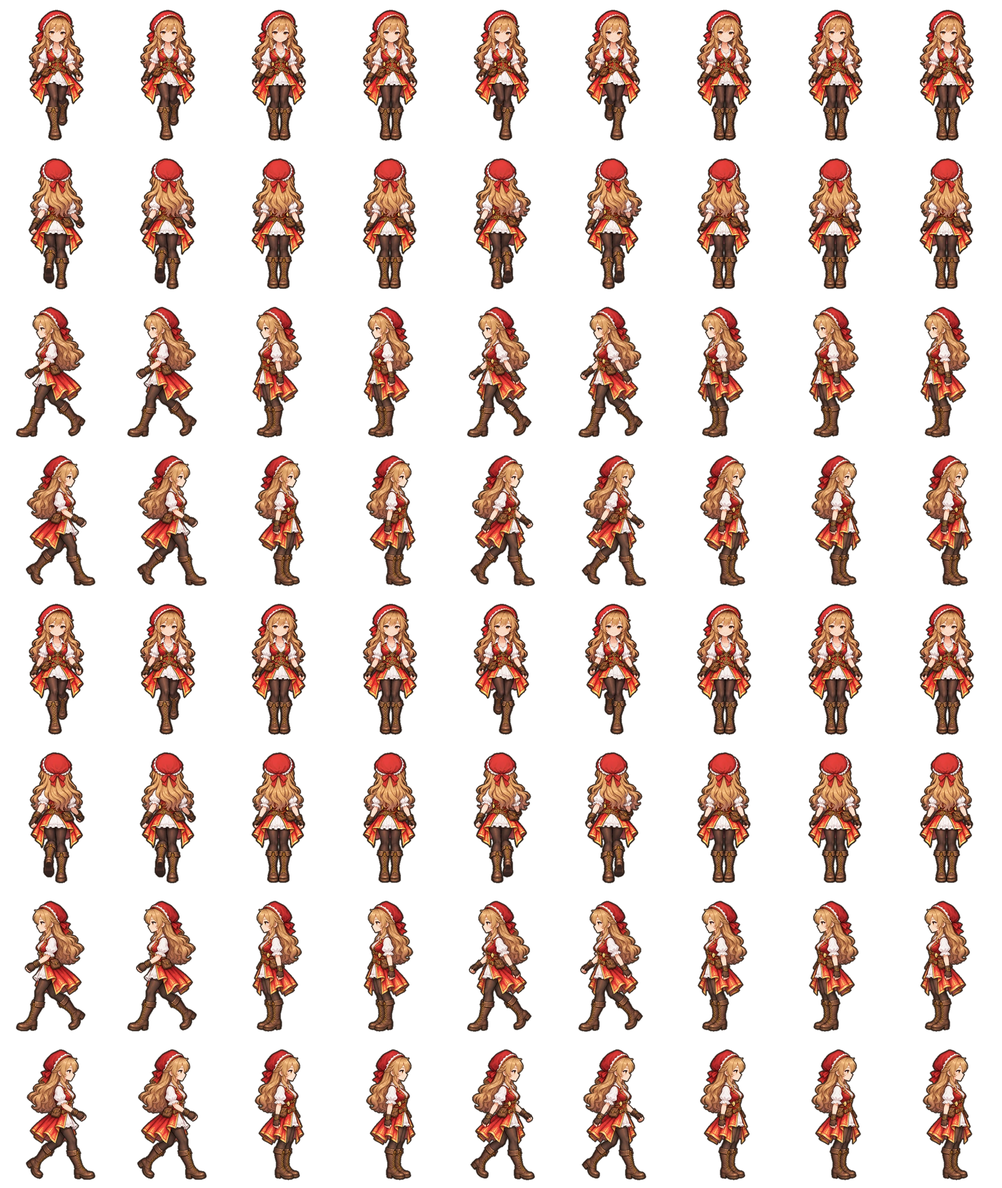
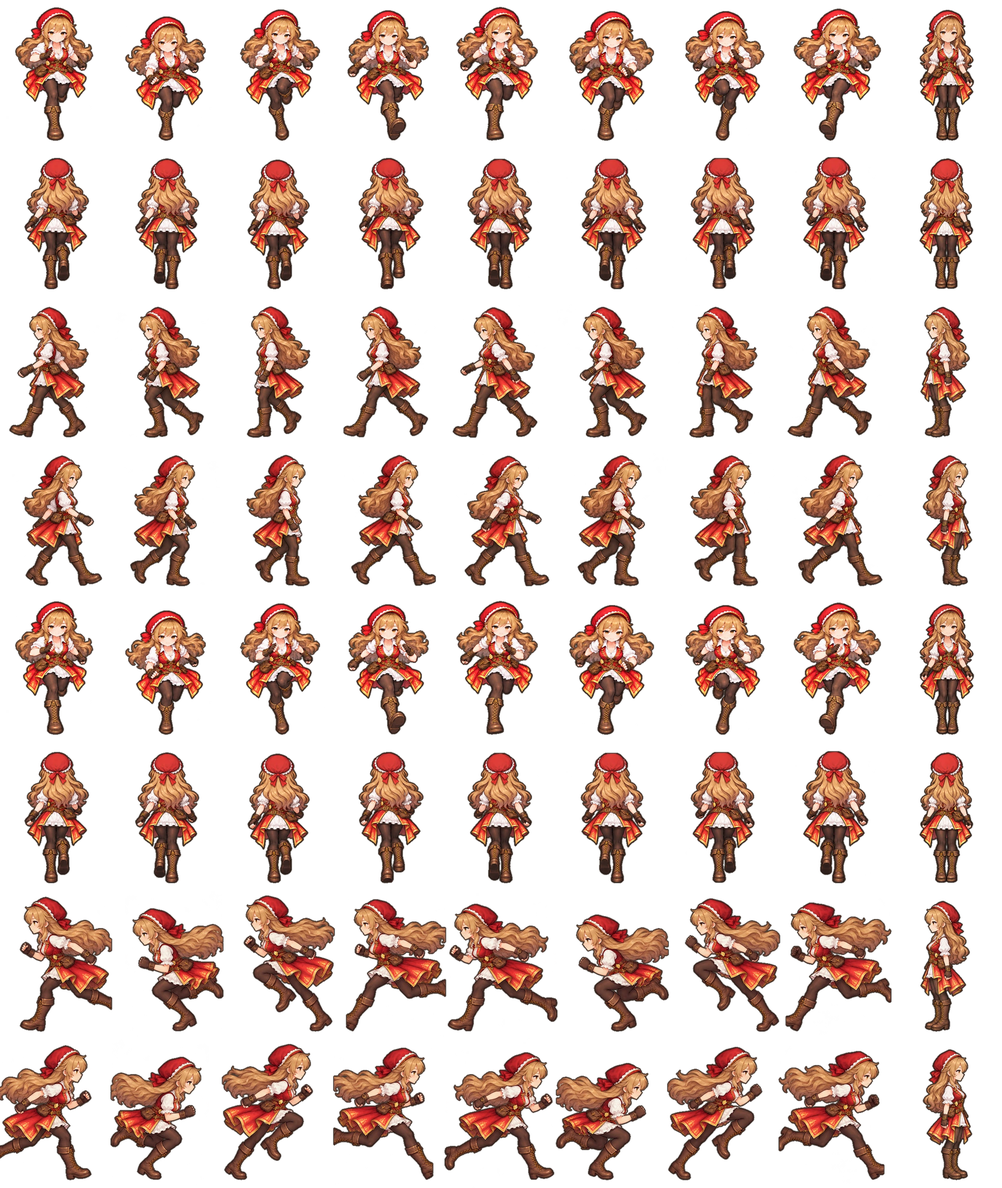
人物の表示を 1.35 倍に・走りは絵の大きさのまま・女性の歩き4方向と左右の走り（第3版）を組み込み
- ユーザー「走っているサイズ感をメインに。立ち・歩きが街に対して小さい」：走りを縮める直しを取り消し（色合わせは残す）、
  街・部屋の人物の表示倍率 FIGURE_ZOOM 1.2→1.35（主人公・人とも）、ダンジョンは 54→61
- 女性：左向きの歩き・正面の歩き・背中の歩き・左向きの走り（2枚ずつ届いたので色と顔が元の絵に近いほうを採用）。
  正面・背中の走りは届くまで歩きの写し
- 帽子の色の検出を男女共通に（青・赤）

Claude-Session: https://claude.ai/code/session_017pkdgoVCas5KENQnYkuWbn

Changed region(s): [[0.0, 0.0, 0.8951, 1.0]]

diff --git a/src/ui/screens/worldScreen.ts b/src/ui/screens/worldScreen.ts
@@ -113,8 +113,11 @@ const DUNGEON_TEX = 160;
 const ART_SCALE = 0.5625;
 /** 部屋は画面の高さに合わせて少し大きく見せる（街の何倍までか。人物の絵がぼやけない範囲） */
 const ROOM_ZOOM_MAX = 1.35;
-/** 街・部屋の人物の大きさ（設計図の 144 単位に対する倍率）。2026-10-23 に街に対して小さすぎたので 1.2 倍に（ユーザー承認） */
-const FIGURE_ZOOM = 1.2;
+/**
+ * 街・部屋の人物の大きさ（設計図の 144 単位に対する倍率）。2026-10-23 に街に対して小さすぎたので 1.2 倍に（ユーザー承認）。
+ * 2026-10-24 ユーザー「立ちと歩きは街に対して小さく見える。走っているサイズ感をメインに」で 1.35 倍に（主人公も人も同じ倍率）
+ */
+const FIGURE_ZOOM = 1.35;
 /** 主人公だけ横幅を広げる倍率（2026-10-23 ユーザー指示「横幅をもう少し大きく」。比べる画像で 1.1 倍を選んだ） */
 const PLAYER_WIDEN = 1.1;
 /** 部屋の絵が画面の高さのどれくらいを占めるか */
@@ -478,9 +481,9 @@ export class WorldView {
     return this.#map.art ? this.#map.art.cell * this.#scale : TILE;
   }
 
-  /** 人物の絵の高さ（論理px）。街・部屋は設計図の 144 単位の FIGURE_ZOOM 倍、仮マップは小さめ */
+  /** 人物の絵の高さ（論理px）。街・部屋は設計図の 144 単位の FIGURE_ZOOM 倍、仮マップ（ダンジョン）は小さめ（2026-10-24 に街と同じ割合で 54→61） */
   get #figureH(): number {
-    return this.#map.art ? 144 * this.#scale * FIGURE_ZOOM : 54;
+    return this.#map.art ? 144 * this.#scale * FIGURE_ZOOM : 61;
   }
 
   /** マス (x, y) に立つ人の足元（論理px） */

diff --git a/src/game/world/walkAnim.ts b/src/game/world/walkAnim.ts
@@ -74,9 +74,12 @@ export const ROW_NAMES: readonly Direction[] = ['down', 'up', 'left', 'right'];
  * 第2版の絵が届いたらここに行を足す（行の番号は DIR_ROW。走りは +RUN_ROW_BASE）。
  * それ以外の行は、前の絵「右足を前・立つ・左足を前」を1コマずつ2回並べた8コマ（実質3ポーズ）
  */
-export const PLAYER_V2_ROWS: Readonly<Record<PlayerGender, ReadonlySet<number>>> = { male: new Set([0, 1, 2, 3, 4, 5, 6, 7]), female: new Set() };
-/** 走りの絵（第3版・1周8コマ）が入っている行。この行では、プログラムで付ける体の傾きもやめる（前傾が絵に描いてある） */
-export const PLAYER_RUN_ART_ROWS: Readonly<Record<PlayerGender, ReadonlySet<number>>> = { male: new Set([4, 5, 6, 7]), female: new Set() };
+export const PLAYER_V2_ROWS: Readonly<Record<PlayerGender, ReadonlySet<number>>> = { male: new Set([0, 1, 2, 3, 4, 5, 6, 7]), female: new Set([0, 1, 2, 3, 4, 5, 6, 7]) };
+/**
+ * 走りの絵（第3版・1周8コマ）が入っている行。この行では、プログラムで付ける体の傾きもやめる（前傾が絵に描いてある）。
+ * 女性の正面・背中の走り（行 4・5）はまだ届いていない（歩きの絵の写し。2026-10-24）
+ */
+export const PLAYER_RUN_ART_ROWS: Readonly<Record<PlayerGender, ReadonlySet<number>>> = { male: new Set([4, 5, 6, 7]), female: new Set([6, 7]) };
 
 /** 1歩の長さ（論理px）。figureH は人物のコマの高さ（論理px） */
 export function strideOf(figureH: number, running: boolean): number {

diff --git a/tests/walkAnim.test.ts b/tests/walkAnim.test.ts
@@ -257,14 +257,16 @@ describe('確認画面の再生速度の倍率', () => {
 });
 
 describe('シートに入っている絵', () => {
-  it('男性は4方向とも歩き第2版・走り第3版。女性はすべて前の絵で走りの絵は無い', () => {
+  it('男性は4方向とも歩き第2版・走り第3版。女性は歩き4方向と左右の走りが第3版（正面・背中の走りは未着）', () => {
     expect(sheetStatus('male', 0).walk).toBe('v2');
     expect(sheetStatus('male', 3).walk).toBe('v2');
-    expect(sheetStatus('female', 0).walk).toBe('legacy');
+    expect(sheetStatus('female', 0).walk).toBe('v2');
     expect(sheetStatus('male', 0).run).toBe('v3');
     expect(sheetStatus('male', 2).run).toBe('v3');
     expect(sheetStatus('male', 6).run).toBe('v3');
-    expect(sheetStatus('female', 2).run).toBe('none');
+    expect(sheetStatus('female', 2).run).toBe('v3');
+    expect(sheetStatus('female', 0).run).toBe('none');
+    expect(sheetStatus('female', 1).run).toBe('none');
     // 走るときは走りの行（＋4）。斜めは横の行
     expect(sheetRow('left', null, true)).toBe(6);
     expect(sheetRow('down', null, true)).toBe(4);

diff --git a/tools/art/adult_walk_build.py b/tools/art/adult_walk_build.py
@@ -172,31 +172,47 @@ def slot_windows(sheet: Image.Image, cols: int, rows: int) -> list[Image.Image]:
     return wins
 
 
-def cap_width(im: Image.Image) -> int:
-    """帽子（青）の横幅（人物の上から 22% の範囲にある青い画素の左右の端）。前傾しても変わりにくいので、大きさ合わせの目安にする"""
+def hat_color(im: Image.Image) -> np.ndarray:
+    """帽子の色（人物の上から 12% の範囲で、色の濃い画素の中央値。男性は青、女性は赤）"""
     arr = np.asarray(im)
     a = arr[..., 3] > 200
     ys = np.nonzero(a.any(axis=1))[0]
-    if len(ys) == 0:
-        return 0
     top, bot = int(ys[0]), int(ys[-1])
     rgb = arr[..., :3].astype(int)
-    blue = (rgb[..., 2] > 110) & (rgb[..., 0] < 90) & (rgb[..., 1] < 120) & a
-    blue[top + int((bot - top) * 0.22):] = False
-    xs = np.nonzero(blue.any(axis=0))[0]
+    band = a.copy()
+    band[top + int((bot - top) * 0.12):] = False
+    sat = (rgb.max(axis=-1) - rgb.min(axis=-1)) > 60
+    px = rgb[band & sat]
+    return np.median(px, axis=0) if len(px) else np.array([0, 0, 0])
+
+
+def hat_mask(im: Image.Image, color: np.ndarray) -> np.ndarray:
+    """帽子の色に近い画素（上から 25% の範囲）"""
+    arr = np.asarray(im)
+    a = arr[..., 3] > 200
+    ys = np.nonzero(a.any(axis=1))[0]
+    top, bot = int(ys[0]), int(ys[-1])
+    rgb = arr[..., :3].astype(int)
+    m = (np.abs(rgb - color).sum(axis=-1) < 110) & a
+    m[top + int((bot - top) * 0.25):] = False
+    return m
+
+
+def cap_width(im: Image.Image, color: np.ndarray) -> int:
+    """帽子の横幅（帽子の色の画素の左右の端）。前傾しても変わりにくいので、大きさ合わせの目安にする"""
+    xs = np.nonzero(hat_mask(im, color).any(axis=0))[0]
     return int(xs[-1] - xs[0] + 1) if len(xs) else 0
 
 
-def region_means(im: Image.Image) -> list[np.ndarray]:
-    """色合わせの目安になる3か所（帽子の青・顔の肌・ブーツの茶）の平均色。無い所は飛ばす"""
+def region_means(im: Image.Image, color: np.ndarray) -> list[np.ndarray]:
+    """色合わせの目安になる3か所（帽子・顔の肌・ブーツの茶）の平均色。無い所は飛ばす"""
     arr = np.asarray(im)
     a = arr[..., 3] > 200
     ys = np.nonzero(a.any(axis=1))[0]
     top, bot = int(ys[0]), int(ys[-1])
     h = bot - top
     rgb = arr[..., :3].astype(int)
-    cap = (rgb[..., 2] > 110) & (rgb[..., 0] < 90) & (rgb[..., 1] < 120) & a
-    cap[top + int(h * 0.22):] = False
+    cap = hat_mask(im, color)
     skin = (rgb[..., 0] > 200) & (rgb[..., 1] > 150) & (rgb[..., 1] < 215) & (rgb[..., 2] > 120) & (rgb[..., 2] < 195) & a
     skin[top + int(h * 0.45):] = False
     boot = (rgb[..., 0] > 90) & (rgb[..., 0] < 170) & (rgb[..., 1] > 50) & (rgb[..., 1] < 110) & (rgb[..., 2] < 70) & a
@@ -207,8 +223,9 @@ def region_means(im: Image.Image) -> list[np.ndarray]:
 def tone_match(wins: list[Image.Image], ref: Image.Image) -> list[Image.Image]:
     """別の日に描いた絵（走り）の色味を、歩きの「立つ」に合わせる（2026-10-24 ユーザー「走りは若干色味が変わる」）。
     帽子・肌・ブーツの平均色が歩きと同じになるように、色ごとに「傾きと切片」の直線で直す（傾きは 0.85〜1.15 に抑える）"""
-    ref_means = region_means(ref)
-    run_means = [np.median([m for m in [region_means(w)[i:i + 1] for w in wins] if m], axis=0)[0] for i in range(len(ref_means))] if ref_means else []
+    color = hat_color(ref)
+    ref_means = region_means(ref, color)
+    run_means = [np.median([m for m in [region_means(w, color)[i:i + 1] for w in wins] if m], axis=0)[0] for i in range(len(ref_means))] if ref_means else []
     if len(ref_means) < 2 or len(run_means) < 2:
         return wins
     src = np.array(run_means)
@@ -238,10 +255,14 @@ def run8_poses(path: Path, walk_sheet: Image.Image) -> list[Image.Image]:
     stand = split_poses(walk_sheet)[0]
     wins = tone_match(slot_windows(Image.open(path).convert('RGBA'), 4, 2), stand)
     frames = place_poses(wins, walk_sheet)
-    ref_cap = cap_width(place(stand, body_center(alpha(stand)), FIGURE_H / figure_height(walk_sheet)))
-    run_cap = float(np.median([cap_width(f) for f in frames]))
-    ratio = min(1.0, max(0.8, ref_cap / run_cap)) if ref_cap and run_cap else 1.0
-    print(f'  帽子の幅: 歩き {ref_cap} / 走り {run_cap:.0f} → 走りを {ratio:.3f} 倍')
+    color = hat_color(stand)
+    ref_cap = cap_width(place(stand, body_center(alpha(stand)), FIGURE_H / figure_height(walk_sheet)), color)
+    run_cap = float(np.median([cap_width(f, color) for f in frames]))
+    # 2026-10-24 ユーザー「むしろ走っているサイズ感をメインにしたい」：走りは縮めず、背の高さをそろえただけの大きさで使う
+    # （走りの絵は頭・帽子が歩きより大きめに描かれているので、少し大きく見える。帽子の幅は参考に出すだけ）。
+    # 立ち・歩きが街に対して小さい分は、ゲーム側の表示倍率（worldScreen.ts の FIGURE_ZOOM）で全体を大きくする
+    ratio = 1.0
+    print(f'  帽子の幅: 歩き {ref_cap} / 走り {run_cap:.0f}（参考。走りは {ratio:.1f} 倍のまま）')
     return place_poses(wins, walk_sheet, ratio)
 
 

diff --git a/docs/handoff.md b/docs/handoff.md
@@ -39,7 +39,7 @@
 | 対戦画面の改訂R2（2026-10-24・公開済み `e1b48d9`・**iPhone 確認待ち**） | ユーザーの ZIP「Seimon_Claude_BattleLayout_R2_20261024」のフェーズ2だけ実装：相手の手札を自分と同じ大きさの裏向きで上に（実枚数・中身は出さない・引く/使う/マナ化で動く）、モンスターを 72→58（72/58/54 を比較）→ユーザー指示で左右の欄を細く・アイコンなしにして 66、手札（自分・相手とも）62→66、相手の列は 左＝状態・右＝マナ/山札/手札/捨札、真ん中の帯に最新の経過1行（押すと全部）、操作のボタンは自分のモンスターの右（ユーザー指示「下すぎて操作感に問題」で、いちばん下から移した。自分の列は 左＝マナなど・右＝ボタン）。ルール・カード・セーブ・画像は変更なし。記録と受入テストの結果は `docs/battle-layout-r2.md`、比較画像は `docs/design/battle-layout-r2-20261024/`。**フェーズ1（街・ダンジョン・NPC）は未着手**（動画4本・前の ZIP が届いていない） |
 | 歩く人物の見え方（2026-10-24・公開済み `8641fd1`） | ユーザーの試遊「プカプカ浮いて見える」「指でなぞるとクルクル回って、切り抜いて貼った絵のようでチープ」から：立っている人の呼吸の動きをやめた（`world.css`）、歩くときの体の上下（弾み）を 0 に、足元の影を広く濃く・少し下へ（接地の影）。向き：壁ぞいにすべるときも押している向きの絵のまま（斜めと正面の絵が1歩ごとに入れ替わっていた）、進めない向きへは 0.22 秒押し続けたときだけその場で向く（`worldScreen.ts` の `TURN_IN_PLACE_MS`） |
 | 世界地図 | **2026-10-23 作って公開（`9b6494b`）**（ユーザー案）：街の南の出口・家の壁の地図で開く画面を、ミスモンの世界地図（ユーザーが送った文字のない版。`assets/images/ui/worldmap/world_map.webp`）に。地方の名前6つ（ミスモン本編と同じ：フェルナ・ノルディス・アステリア・オルティガ・セイラン・ネブラシア。英語は仮訳）を絵の上に重ね、舞台の**フェルナ地方**は金色。街（現在地）とダンジョンを丸い印で置き、押すと下に説明。**南の出口からは出発できる・家の壁の地図は見るだけ**（それまでは家からも出発できた）。ダンジョンは各地方に置く方針（例：雪のダンジョン＝ノルディス地方）。印の位置・名前は**仮**（`src/data/worldMap.ts`）。画面は `dungeonSelectScreen.ts` |
-| 次の作業 | **男性・左向きの歩き8コマ（第3版）が届き、作業ブランチに組み込み済み（記録 `docs/design/walk-run-v3-20261024/10_RESULTS_UTF8.txt`）。ゲームの1歩を絵に合わせて `STEP_PER_HEIGHT` 0.58→0.38（足滑りなし・25コマ/秒の速足）。ユーザー「歩く速さを下げて」で `WALK_PX` 231→185（約5歩/秒・20コマ/秒。走りは 1.7 倍の 315px/秒）。**左向きの走り8コマも届いて組み込み済み**：シートを12行に（歩き8行＋走り4行。走りの絵が無い向きは歩きの写し。女性も同じ形）、走るときは行＋8（`walkAnim.ts` の `sheetRow`）、走りの1歩 0.6→0.7、走りの絵の行ではプログラムの前傾なし。**背中の歩き・背中の走り・正面の走りも届いて組み込み済み → 男性は4方向とも歩き8コマ＋走り8コマがそろった（左向きの走りは2枚目 B を採用。A は `_v3a` で保管）。公開済み。ユーザーの iPhone 試遊「走りは少し大きくなる・色味が変わる」→ 道具で走りのコマを帽子の幅で歩きに合わせて縮め、色も歩きに合わせた（`run8_poses`）。** ユーザー「斜め歩行は無しにして四方向に」で、絵は4方向（斜めに進むときは横の絵。進み方は8方向のまま）、シートは 8行（歩き4＋走り4・2430×2880）、`adult_walk_build.py` は `--diag` なし。残りは女性（`walk-run-v3-20261024/female/`：歩き 左・背中・正面、走り 左・背中・正面。文は男性のものを流用）。** その前の経緯：ユーザーが「何回直しても自然にならない」→ 第3版の依頼一式 `docs/design/walk-run-v3-20261024/`（ZIP `Seimon_WalkRun_v3_Prompts.zip` を渡し済み）。決めごと：歩きは大股の速足（身長の 0.6）で描きゲームの1歩を絵に合わせる・走りは別の8コマ・4方向（斜めは横で代用）・男性の左向き歩きから1枚ずつ。走りの動きの見本は `tools/art/walk_guide_draw.py`（RUN_PH）。届いたら確認画面で歩幅を測って組み込む**。第1段階の報告の → 素材が届いたら `walk-run-phase1-20261024/20_` の手順で組み込み、確認画面で歩幅を計測**。それ以外は、**新しいセッションでは、ユーザーの次の指示を待つ**（2026-10-24 ユーザー「まだ試遊はしていません」）。**ユーザーの試遊・iPhone 確認待ち**：対戦画面の改訂R2（公開済み `e1b48d9`。直しの指示が来たら `battleScreen.ts`・`battleTable.css`）。**第7弾の描き直し6枚（両端の飾りなし）を組み込んだ（2026-10-24・公開済み `35b2c69`。記録 `docs/design/ui-quality7fix-20261023/10_受け取り結果_UTF8.txt`）**。**歩き方の改善（2026-10-24・公開済み `35b2c69`）**：ユーザー「動きがチープ」を受け、ゲーム側だけで、足元を中心に体をわずかに縮める／伸ばす・進む向きへ少し前傾き・足元の影の動き・足の動きを落ち着かせる（`STEP_PER_HEIGHT` 0.45→0.58）（`worldScreen.ts` の `#bodyPose`）。比べた動画はチャットで送付。**歩きの絵の次の作業**：男性の正面は8コマで公開済み。次は男性の左向き・背中を「受け取って貼るだけ」の形（`motion-v2-20261024/easy/`：参考の絵1枚＋枠＋動きの見本＋貼る文。AI は右足・左足を取り違えやすいので動きの見本の図を必ず添付）で頼む。**絵の依頼（最新）**：主人公の「歩く・走る」第2版 `docs/design/motion-v2-20261024/`（2026-10-24。1歩4ポーズ＝1周8コマ・1枚に4ポーズ・1人20枚。ZIP `Seimon_Motion_v2.zip` をユーザーに渡し済み。まず男性・正面の歩き2枚。部品で動かす試作〔`tools/art/rig_*_prototype.py`〕はユーザー「ロボットみたい」で不採用）。その前の依頼：主人公の「歩く・走る」全方向 `docs/design/motion-20261024/`（2026-10-24。歩き4ポーズ＋走り4ポーズ×5方向・1枚に1ポーズ・1人34枚。ZIP `Seimon_Motion_Walk_Run.zip` をユーザーに渡し済み。前の `walk-passing-20261024` を含む。まず男性・正面の W2 を1枚）。**男性・正面の W2・W4 が届いて作業ブランチに組み込み済み・未公開**（`docs/design/motion-20261024/10_RESULTS.txt`。比べた動画はチャットで送付）。届いたら `tools/art/adult_walk_build.py` で「右足を前・右足で立ち左足を運ぶ・左足を前・左足で立ち右足を運ぶ」の4コマにする。黒い余白の補正は画面の下が切れたので取り消し済み（公開済み）。絵の依頼の ZIP は作り直し版（`Seimon_WalkPassing.zip`・英数字の名前・5.5MB）をユーザーが受け取り済み。上の帯の設定（`black-translucent`）の変更はユーザーの判断待ち。**改訂R2のフェーズ1（街・ダンジョン・NPC）は公開済み `44b33e2`・iPhone 確認待ち**（2026-10-24。特に、ホーム画面から開いたとき下の黒い帯が消えたか。黒い余白の補正・ダンジョン 1.5 倍／街 1.15 倍とカメラの遊び・先読み・人のまわり〔重ならない・「話す」・こちらを向く〕・スティックの輪の位置）。記録と確認の結果は `docs/battle-layout-r2.md` 6・7章。**ユーザーの iPhone 確認待ち**：歩く人物（浮かない・回らない・影）、対戦画面（相手の手札は裏向き・情報の箱は端・コマンドは自分の情報の下・相手のひと言）、攻撃終了の修正、ラズック、効果音、世界地図、デザイン第6・7弾、新しいアイコン。**届く予定**：第7弾の描き直し6枚（両端の飾りなし。依頼一式 `docs/design/ui-quality7fix-20261023/`）。**ユーザーが決めること**：ラズックの初期・収集の配分（8/8 か 10/6）、ちょうはつ・ダストキックの細かい裁定、相手のひと言の正式な台詞、ダンジョンの対戦の背景、大会の対戦相手の名前・人物像、先生の台詞（仮）、世界地図の印の位置・名前（仮）。ソラモ・ラズックの未定事項は上の「正式カード」の行。未着の依頼：歩きの「半歩」の絵、走る絵 |
+| 次の作業 | **男性・左向きの歩き8コマ（第3版）が届き、作業ブランチに組み込み済み（記録 `docs/design/walk-run-v3-20261024/10_RESULTS_UTF8.txt`）。ゲームの1歩を絵に合わせて `STEP_PER_HEIGHT` 0.58→0.38（足滑りなし・25コマ/秒の速足）。ユーザー「歩く速さを下げて」で `WALK_PX` 231→185（約5歩/秒・20コマ/秒。走りは 1.7 倍の 315px/秒）。**左向きの走り8コマも届いて組み込み済み**：シートを12行に（歩き8行＋走り4行。走りの絵が無い向きは歩きの写し。女性も同じ形）、走るときは行＋8（`walkAnim.ts` の `sheetRow`）、走りの1歩 0.6→0.7、走りの絵の行ではプログラムの前傾なし。**背中の歩き・背中の走り・正面の走りも届いて組み込み済み → 男性は4方向とも歩き8コマ＋走り8コマがそろった（左向きの走りは2枚目 B を採用。A は `_v3a` で保管）。公開済み。ユーザーの iPhone 試遊「走りは少し大きくなる・色味が変わる」→ 色は歩きに合わせた（`run8_poses`）。大きさは、ユーザー「むしろ走っているサイズ感をメインに。立ち・歩きが街に対して小さい」で走りは縮めず、`FIGURE_ZOOM` 1.2→1.35（人物全体を大きく。ダンジョン 54→61）。**女性の歩き4方向＋左右の走り（第3版）も組み込み済み**（2枚ずつ届いたので色・顔で近いほうを採用。残りは女性の正面・背中の走り＝ユーザー作成中。届いたら `motion-v2/player_female_{front,back}_run8.png` に置いて `adult_walk_build.py … player_female …`）。** ユーザー「斜め歩行は無しにして四方向に」で、絵は4方向（斜めに進むときは横の絵。進み方は8方向のまま）、シートは 8行（歩き4＋走り4・2430×2880）、`adult_walk_build.py` は `--diag` なし。残りは女性（`walk-run-v3-20261024/female/`：歩き 左・背中・正面、走り 左・背中・正面。文は男性のものを流用）。** その前の経緯：ユーザーが「何回直しても自然にならない」→ 第3版の依頼一式 `docs/design/walk-run-v3-20261024/`（ZIP `Seimon_WalkRun_v3_Prompts.zip` を渡し済み）。決めごと：歩きは大股の速足（身長の 0.6）で描きゲームの1歩を絵に合わせる・走りは別の8コマ・4方向（斜めは横で代用）・男性の左向き歩きから1枚ずつ。走りの動きの見本は `tools/art/walk_guide_draw.py`（RUN_PH）。届いたら確認画面で歩幅を測って組み込む**。第1段階の報告の → 素材が届いたら `walk-run-phase1-20261024/20_` の手順で組み込み、確認画面で歩幅を計測**。それ以外は、**新しいセッションでは、ユーザーの次の指示を待つ**（2026-10-24 ユーザー「まだ試遊はしていません」）。**ユーザーの試遊・iPhone 確認待ち**：対戦画面の改訂R2（公開済み `e1b48d9`。直しの指示が来たら `battleScreen.ts`・`battleTable.css`）。**第7弾の描き直し6枚（両端の飾りなし）を組み込んだ（2026-10-24・公開済み `35b2c69`。記録 `docs/design/ui-quality7fix-20261023/10_受け取り結果_UTF8.txt`）**。**歩き方の改善（2026-10-24・公開済み `35b2c69`）**：ユーザー「動きがチープ」を受け、ゲーム側だけで、足元を中心に体をわずかに縮める／伸ばす・進む向きへ少し前傾き・足元の影の動き・足の動きを落ち着かせる（`STEP_PER_HEIGHT` 0.45→0.58）（`worldScreen.ts` の `#bodyPose`）。比べた動画はチャットで送付。**歩きの絵の次の作業**：男性の正面は8コマで公開済み。次は男性の左向き・背中を「受け取って貼るだけ」の形（`motion-v2-20261024/easy/`：参考の絵1枚＋枠＋動きの見本＋貼る文。AI は右足・左足を取り違えやすいので動きの見本の図を必ず添付）で頼む。**絵の依頼（最新）**：主人公の「歩く・走る」第2版 `docs/design/motion-v2-20261024/`（2026-10-24。1歩4ポーズ＝1周8コマ・1枚に4ポーズ・1人20枚。ZIP `Seimon_Motion_v2.zip` をユーザーに渡し済み。まず男性・正面の歩き2枚。部品で動かす試作〔`tools/art/rig_*_prototype.py`〕はユーザー「ロボットみたい」で不採用）。その前の依頼：主人公の「歩く・走る」全方向 `docs/design/motion-20261024/`（2026-10-24。歩き4ポーズ＋走り4ポーズ×5方向・1枚に1ポーズ・1人34枚。ZIP `Seimon_Motion_Walk_Run.zip` をユーザーに渡し済み。前の `walk-passing-20261024` を含む。まず男性・正面の W2 を1枚）。**男性・正面の W2・W4 が届いて作業ブランチに組み込み済み・未公開**（`docs/design/motion-20261024/10_RESULTS.txt`。比べた動画はチャットで送付）。届いたら `tools/art/adult_walk_build.py` で「右足を前・右足で立ち左足を運ぶ・左足を前・左足で立ち右足を運ぶ」の4コマにする。黒い余白の補正は画面の下が切れたので取り消し済み（公開済み）。絵の依頼の ZIP は作り直し版（`Seimon_WalkPassing.zip`・英数字の名前・5.5MB）をユーザーが受け取り済み。上の帯の設定（`black-translucent`）の変更はユーザーの判断待ち。**改訂R2のフェーズ1（街・ダンジョン・NPC）は公開済み `44b33e2`・iPhone 確認待ち**（2026-10-24。特に、ホーム画面から開いたとき下の黒い帯が消えたか。黒い余白の補正・ダンジョン 1.5 倍／街 1.15 倍とカメラの遊び・先読み・人のまわり〔重ならない・「話す」・こちらを向く〕・スティックの輪の位置）。記録と確認の結果は `docs/battle-layout-r2.md` 6・7章。**ユーザーの iPhone 確認待ち**：歩く人物（浮かない・回らない・影）、対戦画面（相手の手札は裏向き・情報の箱は端・コマンドは自分の情報の下・相手のひと言）、攻撃終了の修正、ラズック、効果音、世界地図、デザイン第6・7弾、新しいアイコン。**届く予定**：第7弾の描き直し6枚（両端の飾りなし。依頼一式 `docs/design/ui-quality7fix-20261023/`）。**ユーザーが決めること**：ラズックの初期・収集の配分（8/8 か 10/6）、ちょうはつ・ダストキックの細かい裁定、相手のひと言の正式な台詞、ダンジョンの対戦の背景、大会の対戦相手の名前・人物像、先生の台詞（仮）、世界地図の印の位置・名前（仮）。ソラモ・ラズックの未定事項は上の「正式カード」の行。未着の依頼：歩きの「半歩」の絵、走る絵 |
 
 ## 2. これまでの作業（時系列・要点だけ）
 
